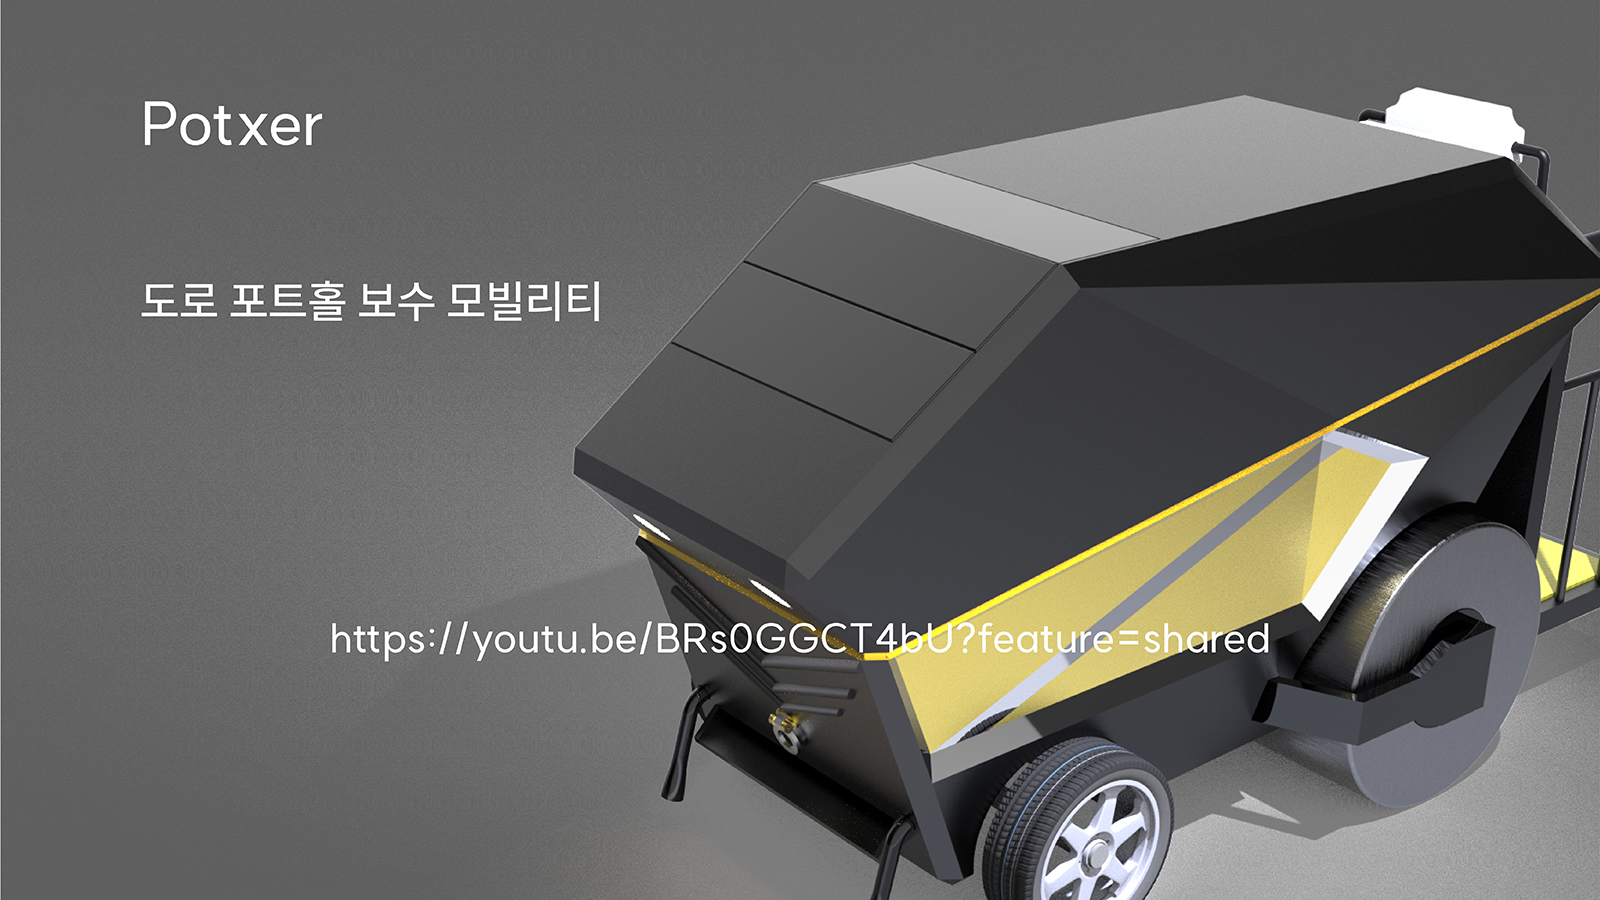
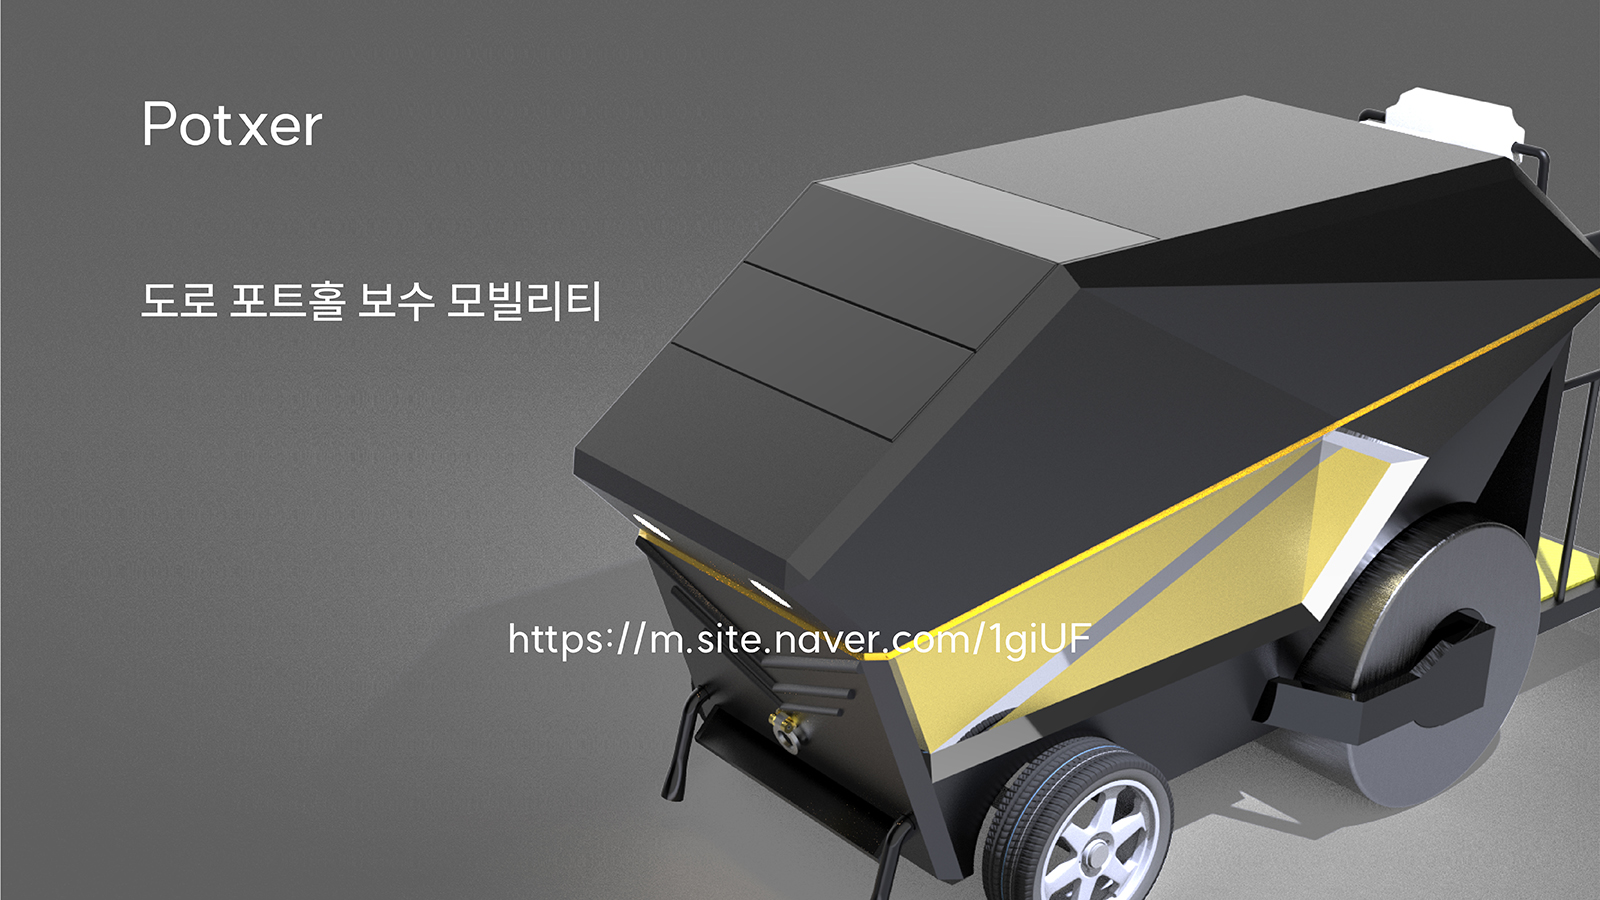
fdsa

Changed region(s): [[0.1875, 0.6844, 0.8125, 0.7467]]

diff --git a/app/profilepage/[id]/page.tsx b/app/profilepage/[id]/page.tsx
@@ -19,7 +19,7 @@ export default function Page({ params }: { params: { id: number } }) {
             <h1>Designer</h1>
             <div className={styles.contents}>
               <h2 className={styles.name}>{db[id].name}<br />{db[id].name_eng}</h2>
-              <p>{db[id].des}</p>
+              <p dangerouslySetInnerHTML={{ __html: db[id].des }}></p>
             </div>
           </div>
 
